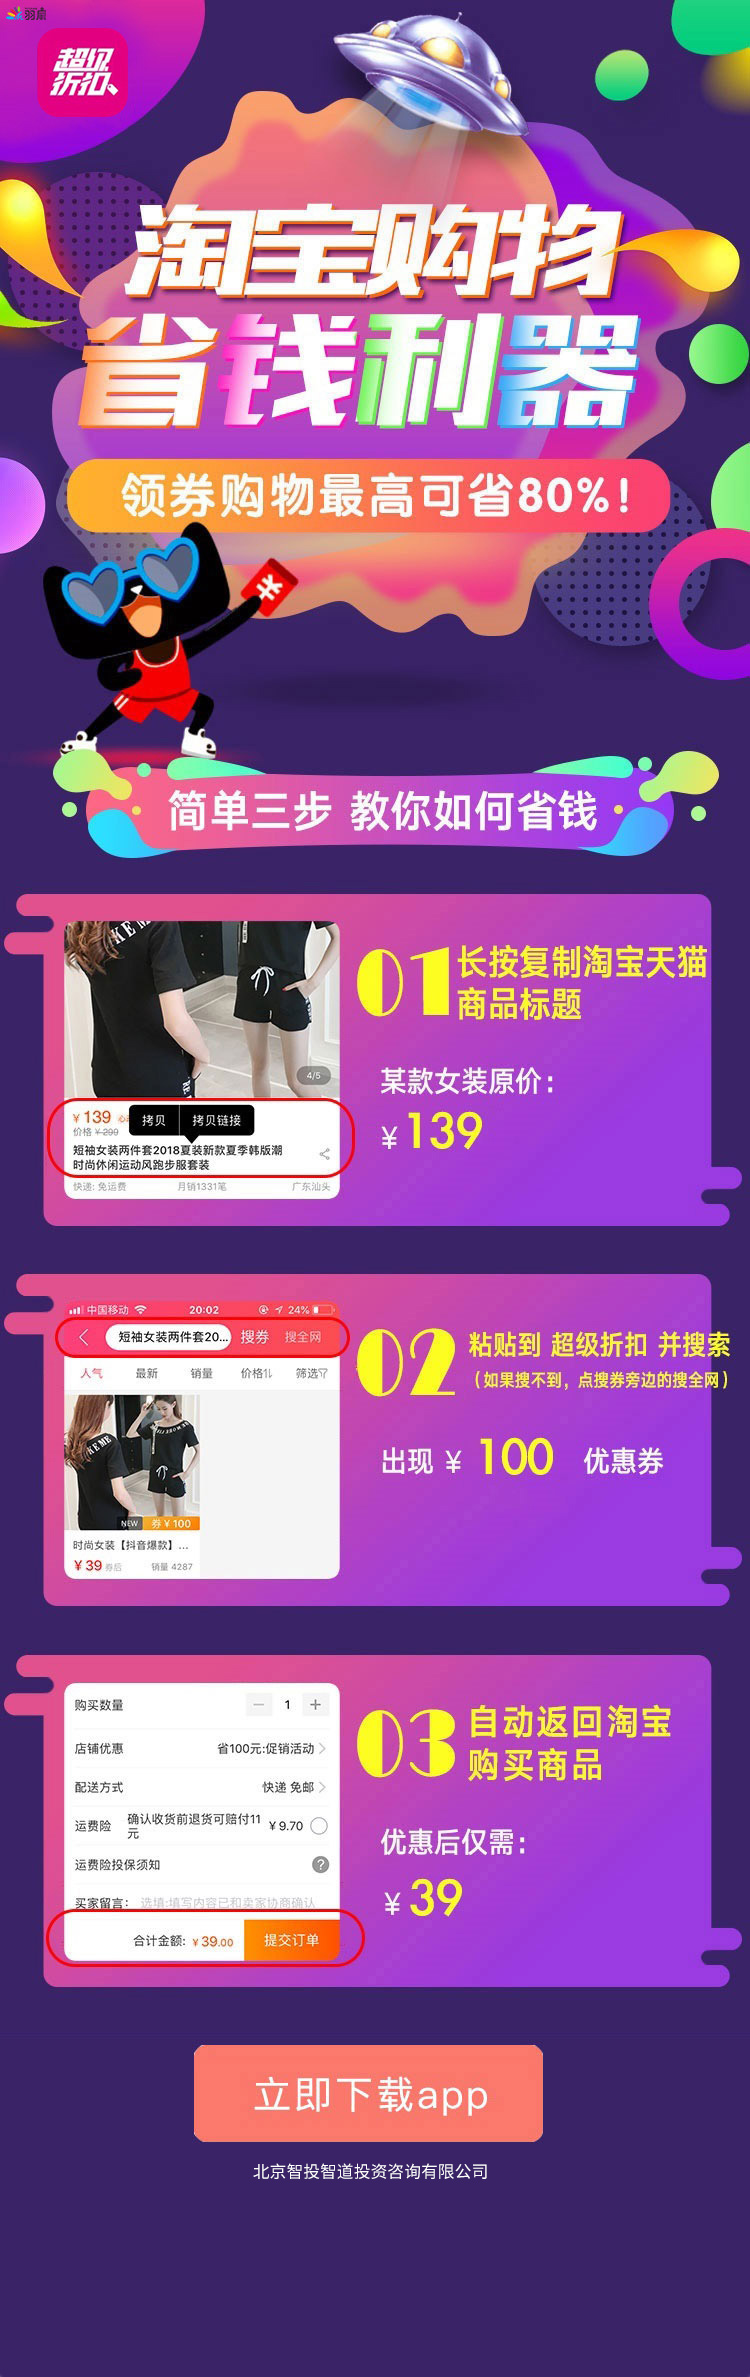
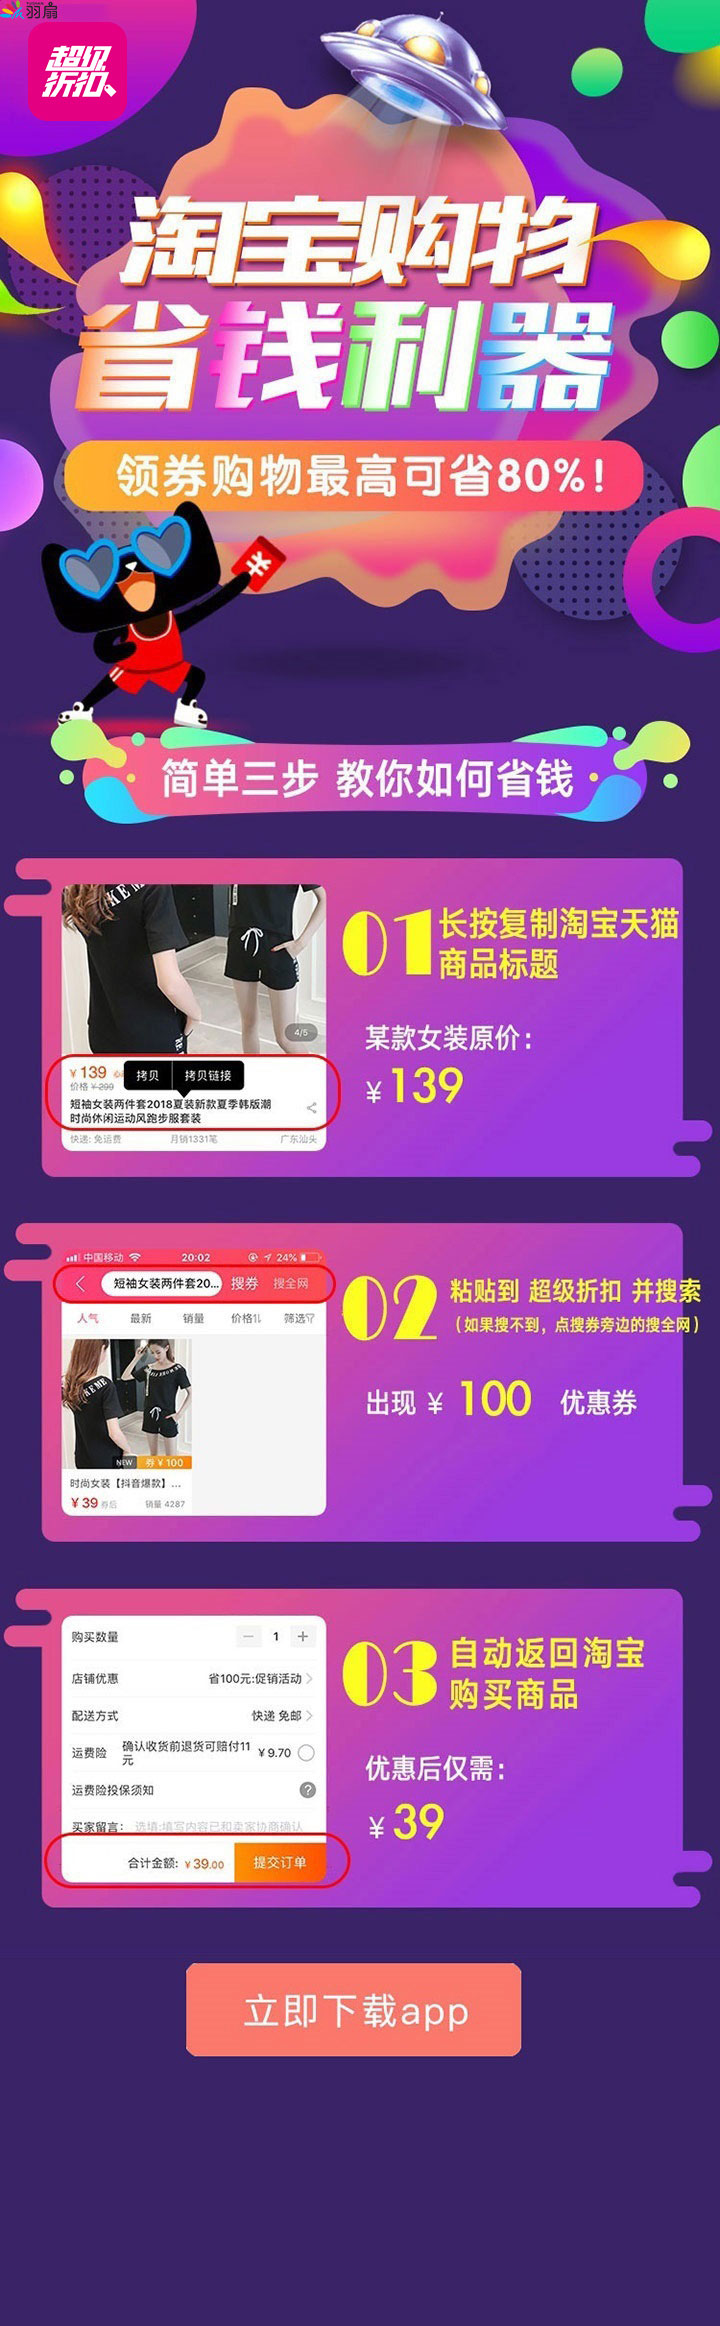
cjzk

diff --git a/cjzk.myushan.com/index.html b/cjzk.myushan.com/index.html
@@ -13,9 +13,8 @@ height:2500px;
 }
 .navImage{
 /* text-align:center; */
-display:inline-block
+display:inline-block;
 /*margin-left:-8px!important; */
-width:100%;			
 }
 
 .navImage2 img{
@@ -46,16 +45,15 @@ var _hmt = _hmt || [];
 </head>
 <body>
 <center>
-<div class="navImage">
-    <img id="img" src="./images/bg4.jpg" alt="navbar" usemap="#navImg">
+<div class="navImage" style="position: relative;">
+    <img id="img" src="./images/bg1.jpg" alt="navbar" usemap="#navImg">
     <map name="navImg" id="navImg">
-      <area shape="rectangle" coords="68,467,688,554" onclick="javascript:;">
 <area shape="rectangle" coords="191,2109,543,2211" onclick="javascript:;">
     </map>
-
-
+	
+	<div style="font-size:16px;color:#000; position:absolute;bottom:9%;width:100%!important;height:auto;text-align:center;margin: 0 auto;">北京智投智道投资咨询有限公司</div>
     </div> 
-<img src="./images/bg2.png" alt="" usemap="#download2Map" style="position:fixed;margin:0 auto;bottom:0;left:0;right:0;max-width: 750px;" onclick="javascript:;">
+<img src="./images/bg2.png" alt="" usemap="#download2Map" style=" display:block; position:fixed;margin:0 auto;bottom:0;left:0;right:0;max-width: 750px;" onclick="javascript:;">
 <map name="download2Map" id="download2">
   <area shape="rect" coords="543,42,730,111" href="javascript:;">
 </map>
